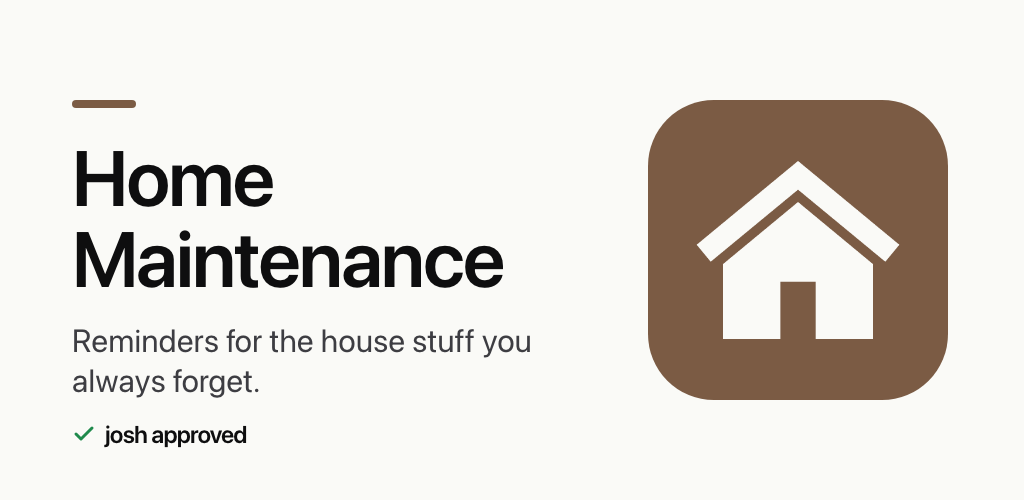
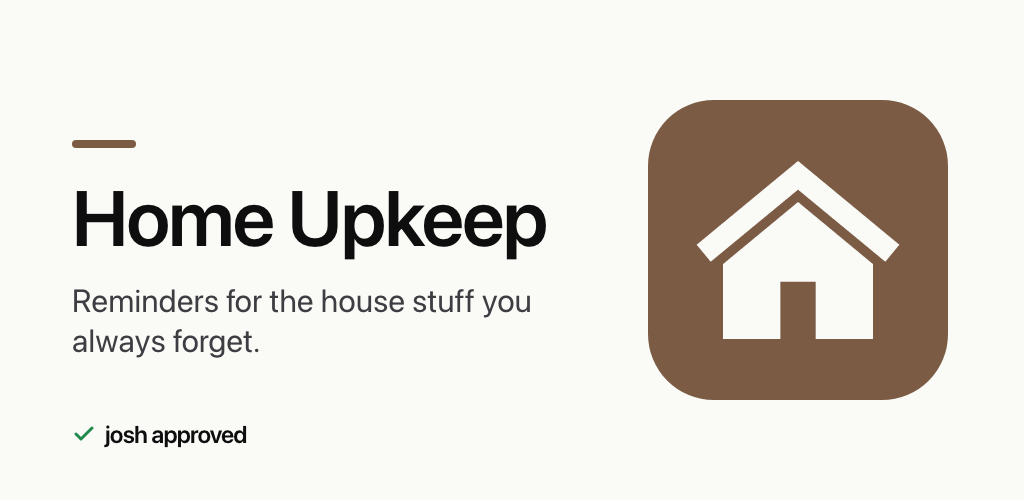
Rename app to Home Upkeep (Home Maintenance was taken on the App Store)
On-device name 'Home Upkeep'; store name 'Home Upkeep - Josh Approved'.
Bundle id, slug, and repo unchanged. Re-rendered the Play feature graphic.

diff --git a/src/constants/tipProducts.ts b/src/constants/tipProducts.ts
@@ -1,5 +1,5 @@
 /**
- * Tip-jar store product ids for Home Maintenance — app-owned (NOT synced from
+ * Tip-jar store product ids for Home Upkeep — app-owned (NOT synced from
  * the factory; each app declares its own). Consumable one-time tips, cheapest
  * → most generous. Ids are reverse-DNS under the bundle id and must match the
  * products created in App Store Connect + Play Console EXACTLY.

diff --git a/src/lib/links.ts b/src/lib/links.ts
@@ -12,7 +12,7 @@
 import { Linking, Platform } from 'react-native';
 import * as Application from 'expo-application';
 
-export const APP_NAME = 'Home Maintenance - Josh Approved';
+export const APP_NAME = 'Home Upkeep - Josh Approved';
 
 /** Numeric App Store Connect id — filled once the ASC record exists (store
  *  setup). Empty is the known pre-store state; the review deep link no-ops

diff --git a/PRIVACY.md b/PRIVACY.md
@@ -1,6 +1,6 @@
 # Privacy
 
-Your data stays with you. Home Maintenance never asks who you are or where you live.
+Your data stays with you. Home Upkeep never asks who you are or where you live.
 
 Your data is stored in a local database on the phone itself. That’s the only copy this app creates. There are no accounts, no sign-in, and no analytics — the app doesn’t track what you do.
 

diff --git a/README.md b/README.md
@@ -1,4 +1,4 @@
-# Home Maintenance
+# Home Upkeep
 
 Reminders for the house stuff you always forget, and every appliance's details in one place. Pick from about 60 common maintenance tasks with sensible schedules, mark one done with a tap, and the next due date sets itself. Keep each appliance's brand, model, and serial number handy, and jump straight to a search for its manual.
 